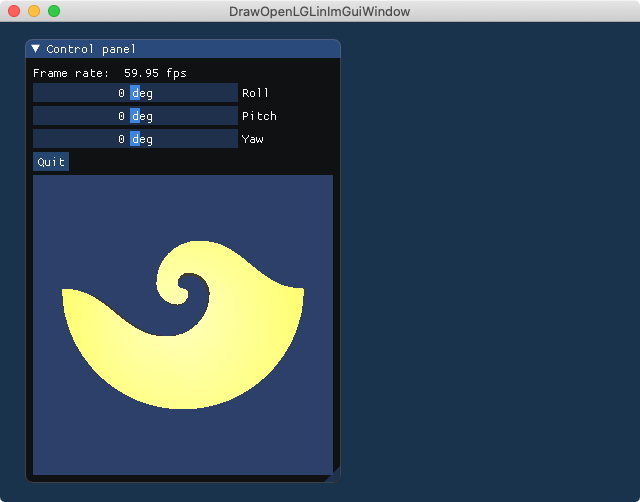
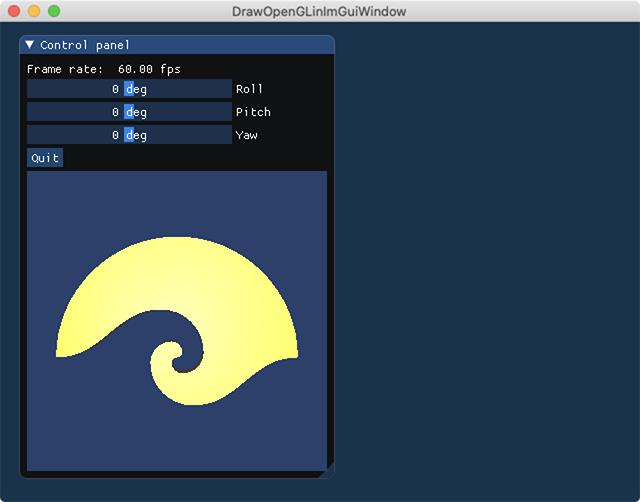
flip the rendered texture upside down.

diff --git a/app.cpp b/app.cpp
@@ -182,7 +182,7 @@ void app()
     ImGui::Begin("OpenGL");
 
     // テクスチャを ImGui のウィンドウに描く
-    ImGui::Image((void*)(intptr_t)cb, ImVec2(fboWidth, fboHeight));
+    ImGui::Image((void*)(intptr_t)cb, ImVec2(fboWidth, fboHeight), ImVec2(0, 1), ImVec2(1, 0));
 
     // ImGui のウィンドウの作成を終了する
     ImGui::End();

diff --git a/README.md b/README.md
@@ -148,11 +148,11 @@ OpenGL の描画処理（ドローコール）の前に、FBO を指定します
     window.resetViewport();
 ```
 
-レンダリング結果のテクスチャが `cb` に入っていますから、これを `ImGui::Image()` で描画します。
+レンダリング結果のテクスチャが `cb` に入っていますから、これを `ImGui::Image()` で描画します。この第3、第4引数は描画するテクスチャの範囲です。これら省略してデフォルト引数を使ってしまうと図形の上下が反転してしまうので、左下が原点となるように、第3引数に `ImVec2(0, 1)`、第4引数に `ImVec2(1, 0)` を指定して、y 方向の範囲を反転します。
 
 ```cpp
     // テクスチャを ImGui のウィンドウに描く
-    ImGui::Image((void*)(intptr_t)cb, ImVec2(fboWidth, fboHeight));
+    ImGui::Image((void*)(intptr_t)cb, ImVec2(fboWidth, fboHeight), ImVec2(0, 1), ImVec2(1, 0));
 ```
 
 Dear ImGui のフレームへの描画を完了します。
@@ -199,7 +199,7 @@ Dear ImGui のフレームへの描画を完了します。
     ImGui::Begin("OpenGL");
 
     // テクスチャを ImGui のウィンドウに描く
-    ImGui::Image((void*)(intptr_t)cb, ImVec2(fboWidth, fboHeight));
+    ImGui::Image((void*)(intptr_t)cb, ImVec2(fboWidth, fboHeight), ImVec2(0, 1), ImVec2(1, 0));
 
     // ImGui のウィンドウの作成を終了する
     ImGui::End();
